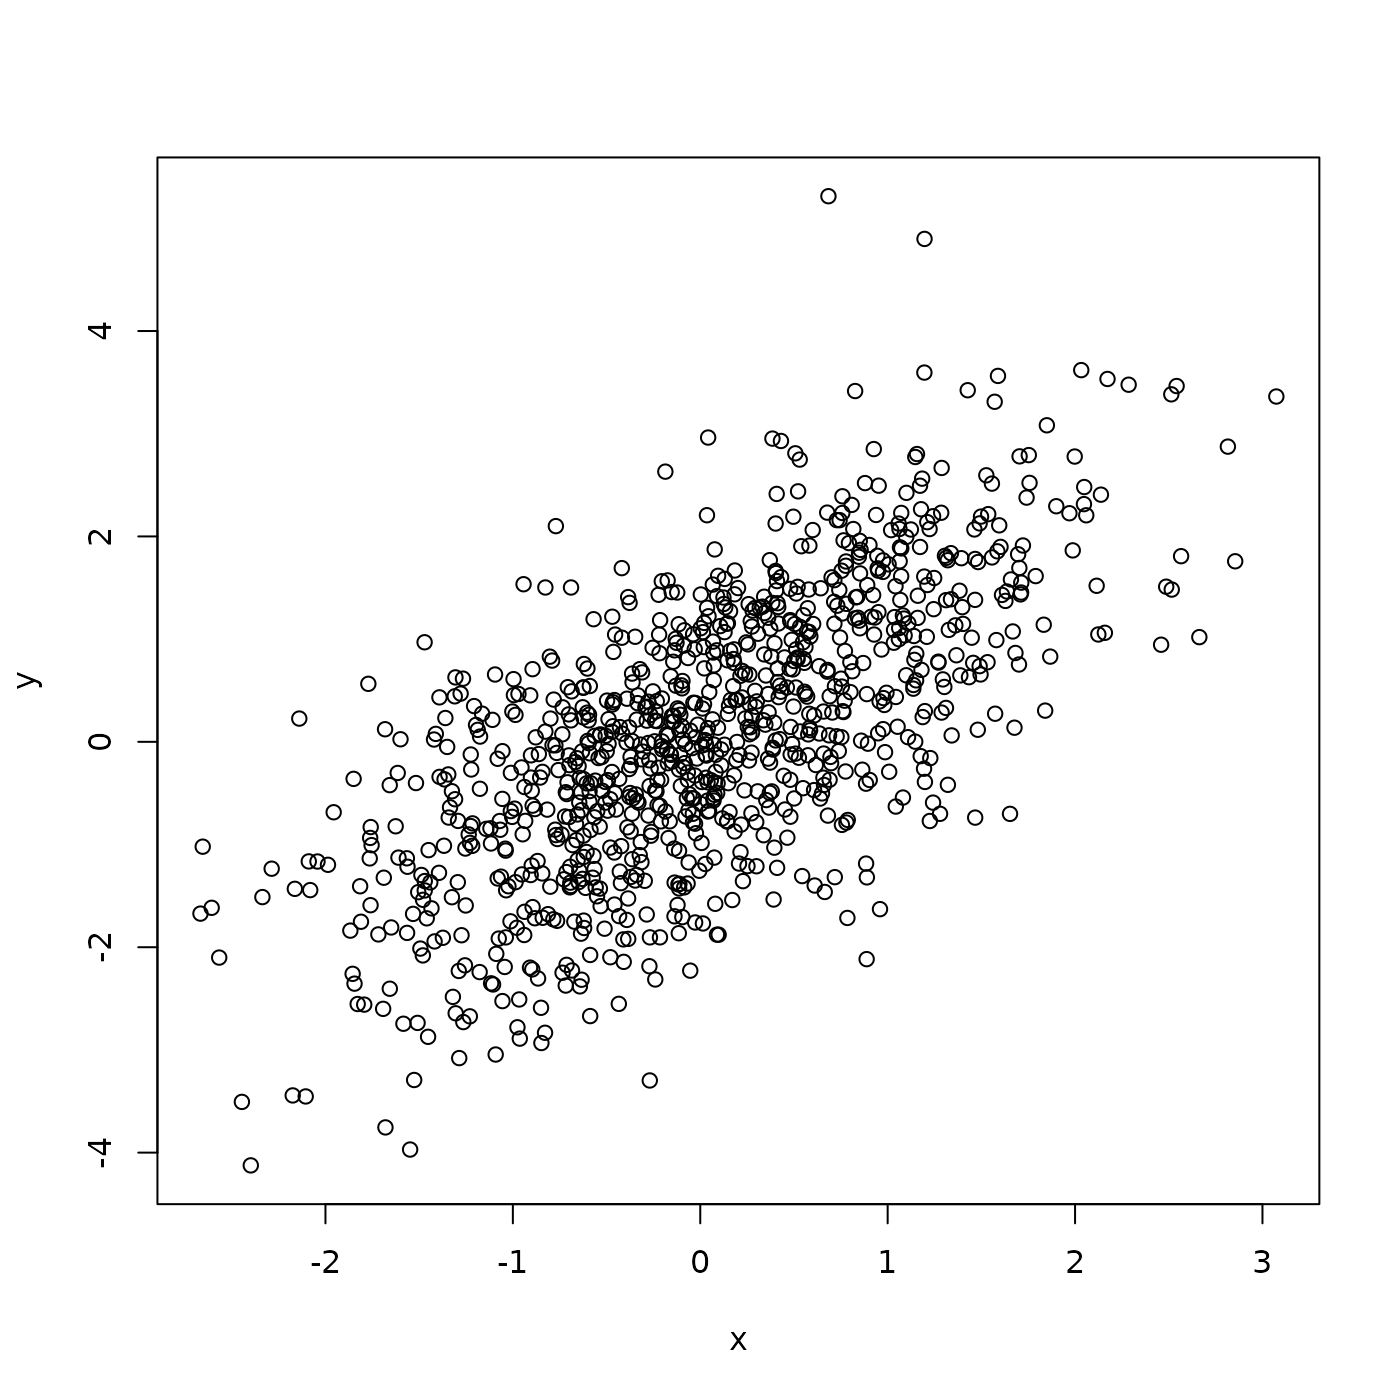
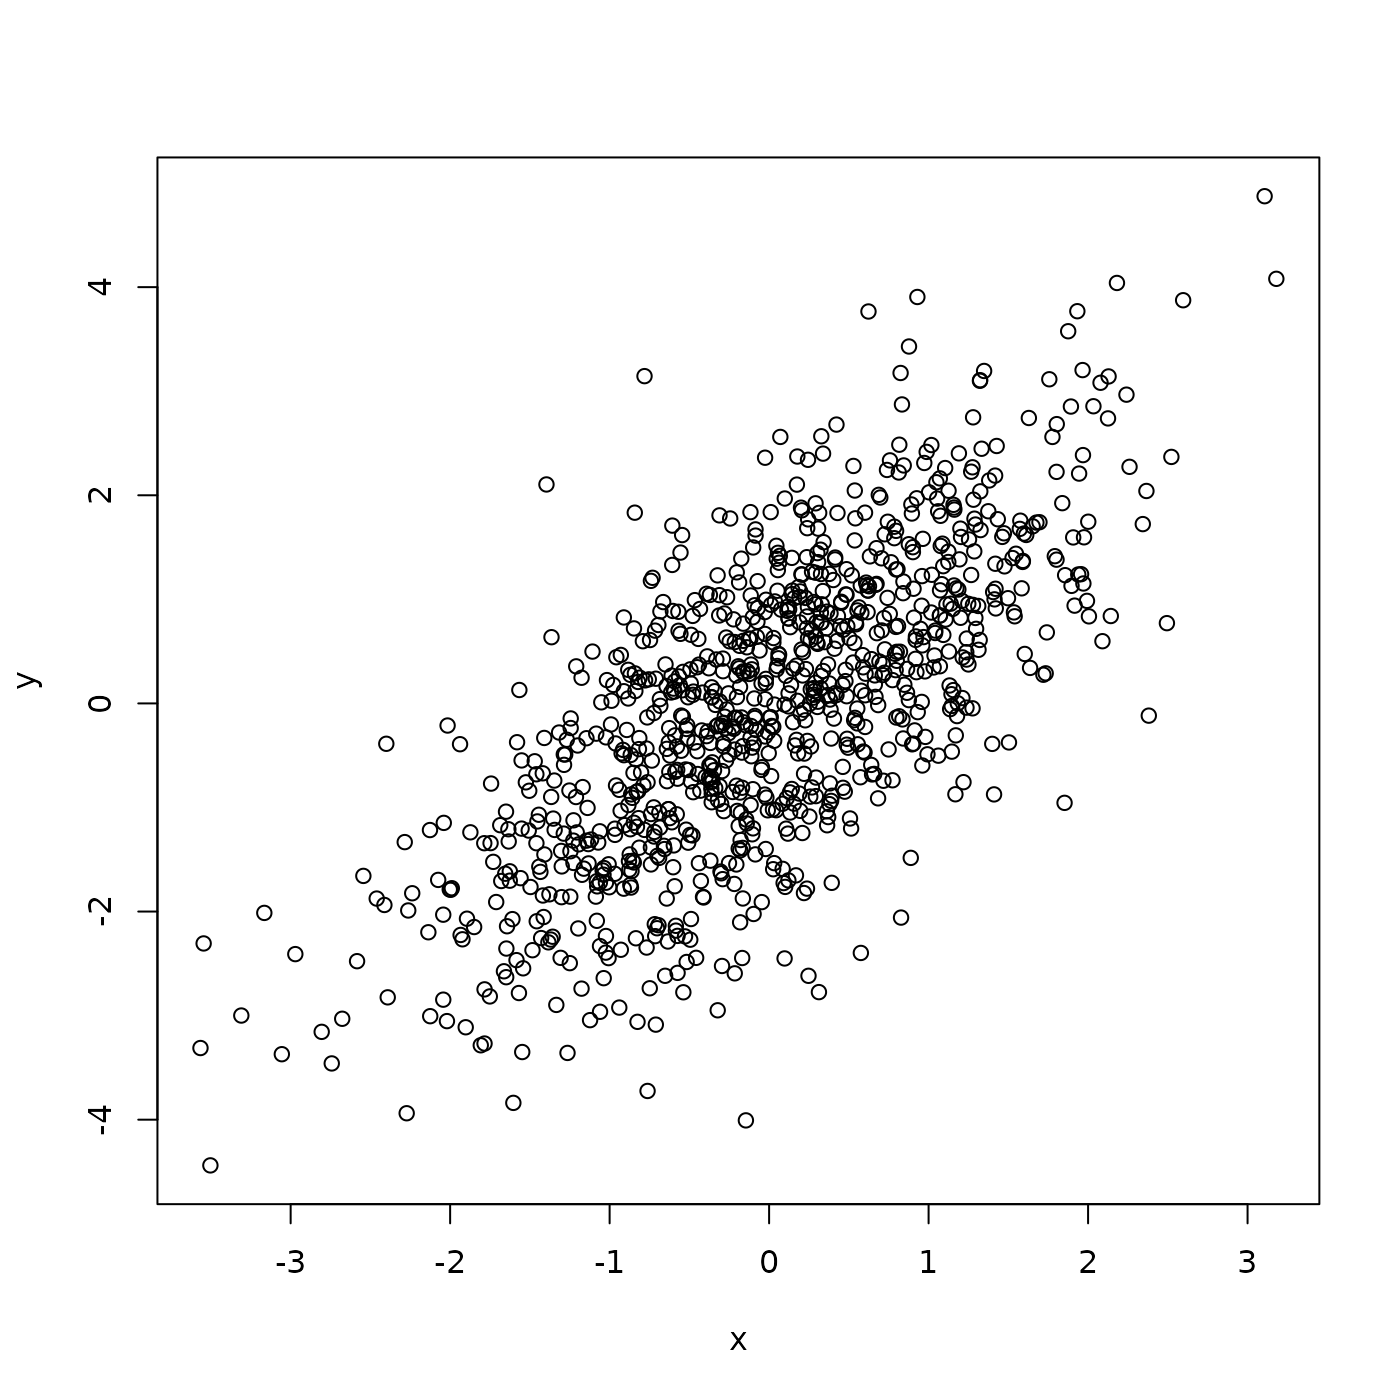
Deploying to gh-pages from @ mtmorgan/BERD@eaf7d226040d5788bece8c9c958a7f2b284894d2 🚀

diff --git a/articles/c_visualization.html b/articles/c_visualization.html
@@ -91,28 +91,12 @@
 <span>    <span class="fu"><a href="https://rdrr.io/r/utils/download.file.html" class="external-link">download.file</a></span><span class="op">(</span><span class="va">url</span>, <span class="va">destination</span><span class="op">)</span></span>
 <span><span class="op">}</span></span></code></pre></div>
 <div class="sourceCode" id="cb2"><pre class="downlit sourceCode r">
-<code class="sourceCode R"><span><span class="va">brfss</span> <span class="op">&lt;-</span> <span class="fu">readr</span><span class="fu">::</span><span class="fu"><a href="https://readr.tidyverse.org/reference/read_delim.html" class="external-link">read_csv</a></span><span class="op">(</span><span class="va">destination</span><span class="op">)</span></span>
-<span><span class="co">#&gt; <span style="font-weight: bold;">Rows: </span><span style="color: #0000BB;">20000</span> <span style="font-weight: bold;">Columns: </span><span style="color: #0000BB;">5</span></span></span>
-<span><span class="co">#&gt; <span style="color: #00BBBB;">──</span> <span style="font-weight: bold;">Column specification</span> <span style="color: #00BBBB;">────────────────────────────────────────────────────────</span></span></span>
-<span><span class="co">#&gt; <span style="font-weight: bold;">Delimiter:</span> ","</span></span>
-<span><span class="co">#&gt; <span style="color: #BB0000;">chr</span> (1): Sex</span></span>
-<span><span class="co">#&gt; <span style="color: #00BB00;">dbl</span> (4): Age, Weight, Height, Year</span></span>
-<span><span class="co">#&gt; </span></span>
-<span><span class="co">#&gt; <span style="color: #00BBBB;">ℹ</span> Use `spec()` to retrieve the full column specification for this data.</span></span>
-<span><span class="co">#&gt; <span style="color: #00BBBB;">ℹ</span> Specify the column types or set `show_col_types = FALSE` to quiet this message.</span></span></code></pre></div>
+<code class="sourceCode R"><span><span class="va">brfss</span> <span class="op">&lt;-</span> <span class="fu">readr</span><span class="fu">::</span><span class="fu"><a href="https://readr.tidyverse.org/reference/read_delim.html" class="external-link">read_csv</a></span><span class="op">(</span><span class="va">destination</span><span class="op">)</span></span></code></pre></div>
 <p>Attach the <a href="https://CRAN.R-project.org/package=dplyr" class="external-link">dplyr</a> package and
 perform the same initial data transformations, and create subsets of
 data.</p>
 <div class="sourceCode" id="cb3"><pre class="downlit sourceCode r">
 <code class="sourceCode R"><span><span class="kw"><a href="https://rdrr.io/r/base/library.html" class="external-link">library</a></span><span class="op">(</span><span class="va"><a href="https://dplyr.tidyverse.org" class="external-link">dplyr</a></span><span class="op">)</span></span>
-<span><span class="co">#&gt; </span></span>
-<span><span class="co">#&gt; Attaching package: 'dplyr'</span></span>
-<span><span class="co">#&gt; The following objects are masked from 'package:stats':</span></span>
-<span><span class="co">#&gt; </span></span>
-<span><span class="co">#&gt;     filter, lag</span></span>
-<span><span class="co">#&gt; The following objects are masked from 'package:base':</span></span>
-<span><span class="co">#&gt; </span></span>
-<span><span class="co">#&gt;     intersect, setdiff, setequal, union</span></span>
 <span></span>
 <span><span class="va">brfss_clean</span> <span class="op">&lt;-</span></span>
 <span>    <span class="va">brfss</span> <span class="op">|&gt;</span></span>
@@ -172,7 +156,7 @@ Weight.</p>
 <span><span class="co">#&gt; mean in group 1990 mean in group 2010 </span></span>
 <span><span class="co">#&gt;           1.903711           1.939912</span></span></code></pre></div>
 <p>The <em>p</em>-value displayed here is <code>&lt; 2.2e-16</code>, so
-we are <em>very</em> confident that Males in 2010 are heavier than males
+we are <em>very</em> confident that Males in 2010 are heavier than Males
 in 1990.</p>
 <p>The ‘sample estimates’ agree with the values we calculated using
 <code><a href="https://dplyr.tidyverse.org/reference/group_by.html" class="external-link">group_by()</a></code> and <code><a href="https://dplyr.tidyverse.org/reference/summarise.html" class="external-link">summarize()</a></code>; this provides us
@@ -255,7 +239,7 @@ information</p>
 <span><span class="co">#&gt; Multiple R-squared:  0.1069, Adjusted R-squared:  0.1068 </span></span>
 <span><span class="co">#&gt; F-statistic:   710 on 1 and 5929 DF,  p-value: &lt; 2.2e-16</span></span></code></pre></div>
 <p>e.g., showing that about 10% (‘Adjusted R-squared’) of the variation
-in log 10 Weight is explaind by Height. There are likely many other
+in log 10 Weight is explained by Height. There are likely many other
 factors contributing to Weight variation.</p>
 <p>To visualize the linear regression, plot the data points and then use
 <code><a href="https://rdrr.io/r/graphics/abline.html" class="external-link">abline()</a></code> to add the regression line; we also add a ‘main’
@@ -287,9 +271,7 @@ log scale.</p>
 <code class="sourceCode R"><span><span class="fu"><a href="https://ggplot2.tidyverse.org/reference/ggplot.html" class="external-link">ggplot</a></span><span class="op">(</span><span class="va">brfss_female_2010</span><span class="op">)</span> <span class="op">+</span></span>
 <span>    <span class="fu"><a href="https://ggplot2.tidyverse.org/reference/aes.html" class="external-link">aes</a></span><span class="op">(</span>x <span class="op">=</span> <span class="va">Height</span>, y <span class="op">=</span> <span class="va">Weight</span><span class="op">)</span> <span class="op">+</span></span>
 <span>    <span class="fu"><a href="https://ggplot2.tidyverse.org/reference/geom_point.html" class="external-link">geom_point</a></span><span class="op">(</span><span class="op">)</span> <span class="op">+</span></span>
-<span>    <span class="fu"><a href="https://ggplot2.tidyverse.org/reference/scale_continuous.html" class="external-link">scale_y_log10</a></span><span class="op">(</span><span class="op">)</span></span>
-<span><span class="co">#&gt; Warning: Removed 390 rows containing missing values or values outside the scale range</span></span>
-<span><span class="co">#&gt; (`geom_point()`).</span></span></code></pre></div>
+<span>    <span class="fu"><a href="https://ggplot2.tidyverse.org/reference/scale_continuous.html" class="external-link">scale_y_log10</a></span><span class="op">(</span><span class="op">)</span></span></code></pre></div>
 <p><img src="c_visualization_files/figure-html/unnamed-chunk-15-1.png" width="700"></p>
 <p>Add a linear regression using
 <code>geom_smooth(method = "lm")</code></p>
@@ -299,11 +281,7 @@ log scale.</p>
 <span>    <span class="fu"><a href="https://ggplot2.tidyverse.org/reference/geom_point.html" class="external-link">geom_point</a></span><span class="op">(</span><span class="op">)</span> <span class="op">+</span></span>
 <span>    <span class="fu"><a href="https://ggplot2.tidyverse.org/reference/geom_smooth.html" class="external-link">geom_smooth</a></span><span class="op">(</span>method <span class="op">=</span> <span class="st">"lm"</span><span class="op">)</span> <span class="op">+</span></span>
 <span>    <span class="fu"><a href="https://ggplot2.tidyverse.org/reference/scale_continuous.html" class="external-link">scale_y_log10</a></span><span class="op">(</span><span class="op">)</span></span>
-<span><span class="co">#&gt; `geom_smooth()` using formula = 'y ~ x'</span></span>
-<span><span class="co">#&gt; Warning: Removed 390 rows containing non-finite outside the scale range</span></span>
-<span><span class="co">#&gt; (`stat_smooth()`).</span></span>
-<span><span class="co">#&gt; Warning: Removed 390 rows containing missing values or values outside the scale range</span></span>
-<span><span class="co">#&gt; (`geom_point()`).</span></span></code></pre></div>
+<span><span class="co">#&gt; `geom_smooth()` using formula = 'y ~ x'</span></span></code></pre></div>
 <p><img src="c_visualization_files/figure-html/unnamed-chunk-16-1.png" width="700"></p>
 <p>Note that the fitted regression includes confidence bands, which can
 be very helpful when trying to interpret the fit.</p>
@@ -316,21 +294,18 @@ it’s default method…</p>
 <span>    <span class="fu"><a href="https://ggplot2.tidyverse.org/reference/geom_point.html" class="external-link">geom_point</a></span><span class="op">(</span><span class="op">)</span> <span class="op">+</span></span>
 <span>    <span class="fu"><a href="https://ggplot2.tidyverse.org/reference/geom_smooth.html" class="external-link">geom_smooth</a></span><span class="op">(</span><span class="op">)</span> <span class="op">+</span></span>
 <span>    <span class="fu"><a href="https://ggplot2.tidyverse.org/reference/scale_continuous.html" class="external-link">scale_y_log10</a></span><span class="op">(</span><span class="op">)</span></span>
-<span><span class="co">#&gt; `geom_smooth()` using method = 'gam' and formula = 'y ~ s(x, bs = "cs")'</span></span>
-<span><span class="co">#&gt; Warning: Removed 390 rows containing non-finite outside the scale range</span></span>
-<span><span class="co">#&gt; (`stat_smooth()`).</span></span>
-<span><span class="co">#&gt; Warning: Removed 390 rows containing missing values or values outside the scale range</span></span>
-<span><span class="co">#&gt; (`geom_point()`).</span></span></code></pre></div>
+<span><span class="co">#&gt; `geom_smooth()` using method = 'gam' and formula = 'y ~ s(x, bs = "cs")'</span></span></code></pre></div>
 <p><img src="c_visualization_files/figure-html/unnamed-chunk-17-1.png" width="700"></p>
 <p><a href="https://CRAN.R-project.org/package=ggplot2" class="external-link">ggplot2</a> has
 chosen to use a ‘generalized additive model’ that fits a smoothed curve.
 This makes fewer <em>a priori</em> assumptions about the relationship
 between Weight and Height, and in particular suggests that (a) the
 linear relationship is appropriate for the central part of the data, but
-at the extremes of Height and (b) there is considerable uncertainty at
-the extremes of Height. This approach is very appropriate in early
-stages of exploratory analysis, where one is still trying to understand
-data without making additional or unnecessary assumptions.</p>
+not at the extremes of Height and (b) there is considerable uncertainty
+at the extremes of Height. This approach (making fewer assumptions about
+the relationship between variables) is very appropriate in early stages
+of exploratory analysis, where one is still trying to understand data
+without making additional or unnecessary assumptions.</p>
 </div>
 <div class="section level2">
 <h2 id="using-ai">Using AI<a class="anchor" aria-label="anchor" href="#using-ai"></a>

diff --git a/articles/a_introduction_to_r.html b/articles/a_introduction_to_r.html
@@ -292,23 +292,26 @@ interest</p>
 <div class="sourceCode" id="cb16"><pre class="downlit sourceCode r">
 <code class="sourceCode R"><span><span class="va">x</span> <span class="op">&lt;-</span> <span class="fu"><a href="https://rdrr.io/r/stats/Normal.html" class="external-link">rnorm</a></span><span class="op">(</span><span class="fl">100</span><span class="op">)</span></span>
 <span><span class="va">x</span></span>
-<span><span class="co">#&gt;   [1]  1.78556811  0.33184596  1.97564515 -0.07071529 -0.27152441  0.34426525</span></span>
-<span><span class="co">#&gt;   [7]  1.90478795 -1.37253682 -2.36035231  0.41359999 -0.53265800  0.59282024</span></span>
-<span><span class="co">#&gt;  [13]  0.42229579  1.47392482  1.19553792  0.63291454 -0.25504222 -0.12464319</span></span>
-<span><span class="co">#&gt;  [19] -1.80792722 -1.18524153  1.29260061  0.44788479  0.43793079 -1.91272150</span></span>
-<span><span class="co">#&gt;  [25]  1.06338199 -0.43423618 -1.50075709 -0.36360444  0.80054695 -0.55229802</span></span>
-<span><span class="co">#&gt;  [31] -0.06204109  0.26167826 -0.08815745  0.70516541 -1.16229862  0.18098553</span></span>
-<span><span class="co">#&gt;  [37] -0.82298188 -0.28787923  0.42706849  0.07340455 -0.35682721  0.12540860</span></span>
-<span><span class="co">#&gt;  [43] -0.52852267  2.02810176  0.34202364  1.35698111  0.03456445 -0.56437232</span></span>
-<span><span class="co">#&gt;  [49] -0.47256837  0.04297492  1.24146944 -0.96392188  1.07745034  1.06324637</span></span>
-<span><span class="co">#&gt;  [55] -0.44848888  1.17365034  0.11218180 -2.27841150  0.72561183 -1.92900653</span></span>
-<span><span class="co">#&gt;  [61]  0.38582485 -0.52717921  0.78008279 -1.23110883 -0.01105518 -0.20475982</span></span>
-<span><span class="co">#&gt;  [67] -0.28727842 -0.76882122  1.20914919 -0.56188086  0.76301255 -1.23131936</span></span>
-<span><span class="co">#&gt;  [73]  0.76078672  1.09654847 -1.87411794  1.22150723  0.35556513  1.46252602</span></span>
-<span><span class="co">#&gt;  [79] -0.19804992 -0.75620288  1.50192175 -1.78765753 -0.09799700 -1.72542671</span></span>
-<span><span class="co">#&gt;  [85] -1.64833768 -2.21651539  0.55257104  1.31372001 -0.85917583 -0.18342273</span></span>
-<span><span class="co">#&gt;  [91]  0.33637231 -0.16501881  0.31728331  0.83937455 -0.02460942 -0.31368997</span></span>
-<span><span class="co">#&gt;  [97]  2.11964574 -1.12986380 -0.14779557 -0.08747292</span></span></code></pre></div>
+<span><span class="co">#&gt;   [1]  0.056725083  0.087926147 -0.151942492 -1.087047076 -0.758795525</span></span>
+<span><span class="co">#&gt;   [6] -1.343923668  0.389401293  0.276722917 -0.770952117 -1.447197157</span></span>
+<span><span class="co">#&gt;  [11] -0.540858993 -0.626032319 -0.411708739  1.692783026 -0.313417886</span></span>
+<span><span class="co">#&gt;  [16]  0.962650617  0.493924517  1.270992569  1.308651788  1.483405532</span></span>
+<span><span class="co">#&gt;  [21] -0.124928345 -1.027417740 -1.688064119  0.301654228 -0.381084618</span></span>
+<span><span class="co">#&gt;  [26] -0.565706638  0.351471898 -0.581986771 -0.534852340 -1.100897597</span></span>
+<span><span class="co">#&gt;  [31]  0.683596532  1.049866929  0.297320272 -0.424079593 -1.233166089</span></span>
+<span><span class="co">#&gt;  [36]  0.300708543 -1.827817596  0.156011855 -0.571938877 -0.212919009</span></span>
+<span><span class="co">#&gt;  [41] -2.056331608  0.411068319 -0.299881312 -0.541623259 -0.908662972</span></span>
+<span><span class="co">#&gt;  [46]  1.072195990 -1.219769893 -0.603520514 -1.416940443  0.764627281</span></span>
+<span><span class="co">#&gt;  [51] -1.352926296 -2.255653340 -0.884088881  0.345132415 -0.101307403</span></span>
+<span><span class="co">#&gt;  [56] -0.311526056  0.665768725 -1.002032825  0.608879028 -0.039766351</span></span>
+<span><span class="co">#&gt;  [61]  1.056821667 -0.334050891  2.195108021 -1.649354269  0.028787553</span></span>
+<span><span class="co">#&gt;  [66] -0.382010712  0.153630255 -0.009364267  0.805076225 -0.436339960</span></span>
+<span><span class="co">#&gt;  [71]  0.174071908  0.557417135 -0.670616801 -1.149412273 -1.430059204</span></span>
+<span><span class="co">#&gt;  [76]  0.851195312 -0.279244546 -1.734496119 -1.012816806 -0.088179584</span></span>
+<span><span class="co">#&gt;  [81]  0.339486488 -1.441697327 -0.680195692  0.931366568  0.029184907</span></span>
+<span><span class="co">#&gt;  [86]  0.111689031 -0.211418370 -0.687867421  0.869809473 -0.055662922</span></span>
+<span><span class="co">#&gt;  [91] -0.030479820  1.070571345  0.631786396 -2.219848001 -1.216104906</span></span>
+<span><span class="co">#&gt;  [96]  0.502144891  1.326887214  1.582197075  1.691690584  0.821061484</span></span></code></pre></div>
 <p>Look up the help page for <code>rnorm</code> –
 <code><a href="https://rdrr.io/r/stats/Normal.html" class="external-link">?rnorm</a></code></p>
 <p>Plot a histogram using <code><a href="https://rdrr.io/r/graphics/hist.html" class="external-link">hist()</a></code></p>
